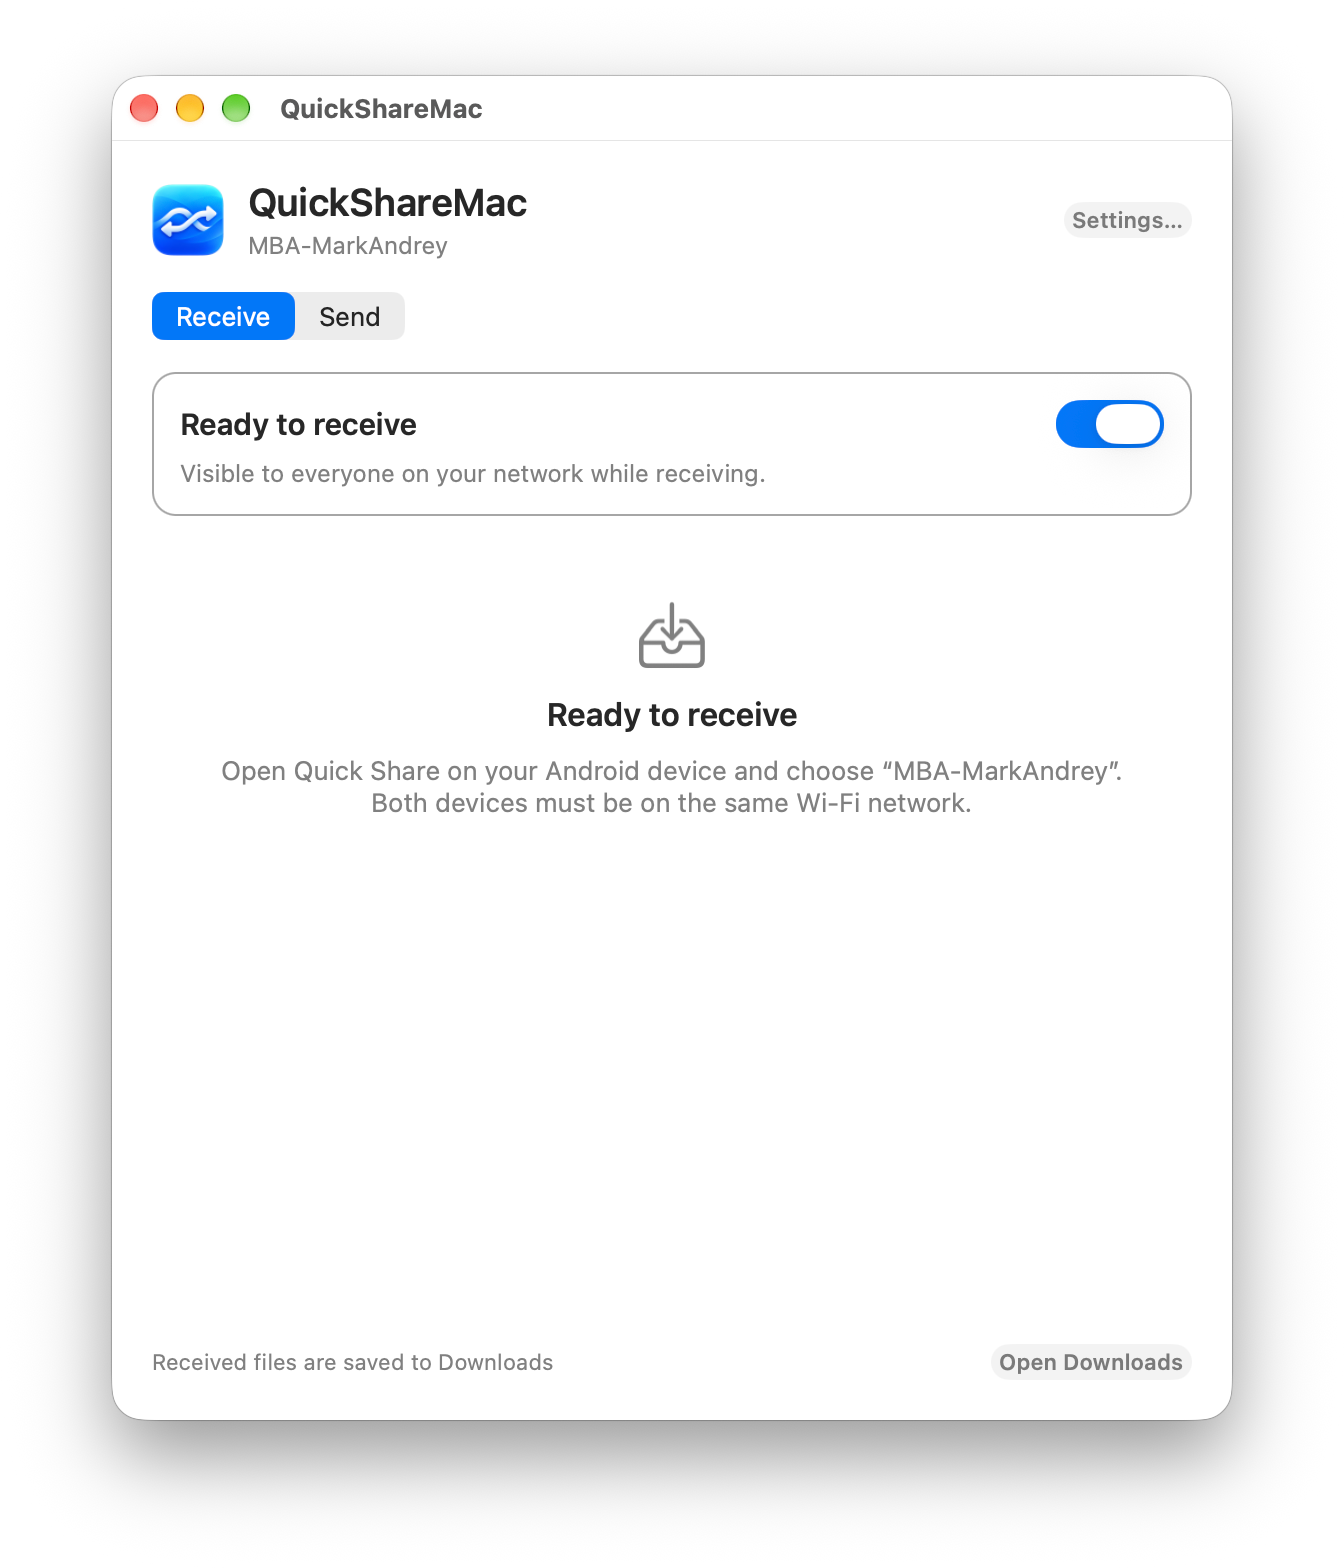
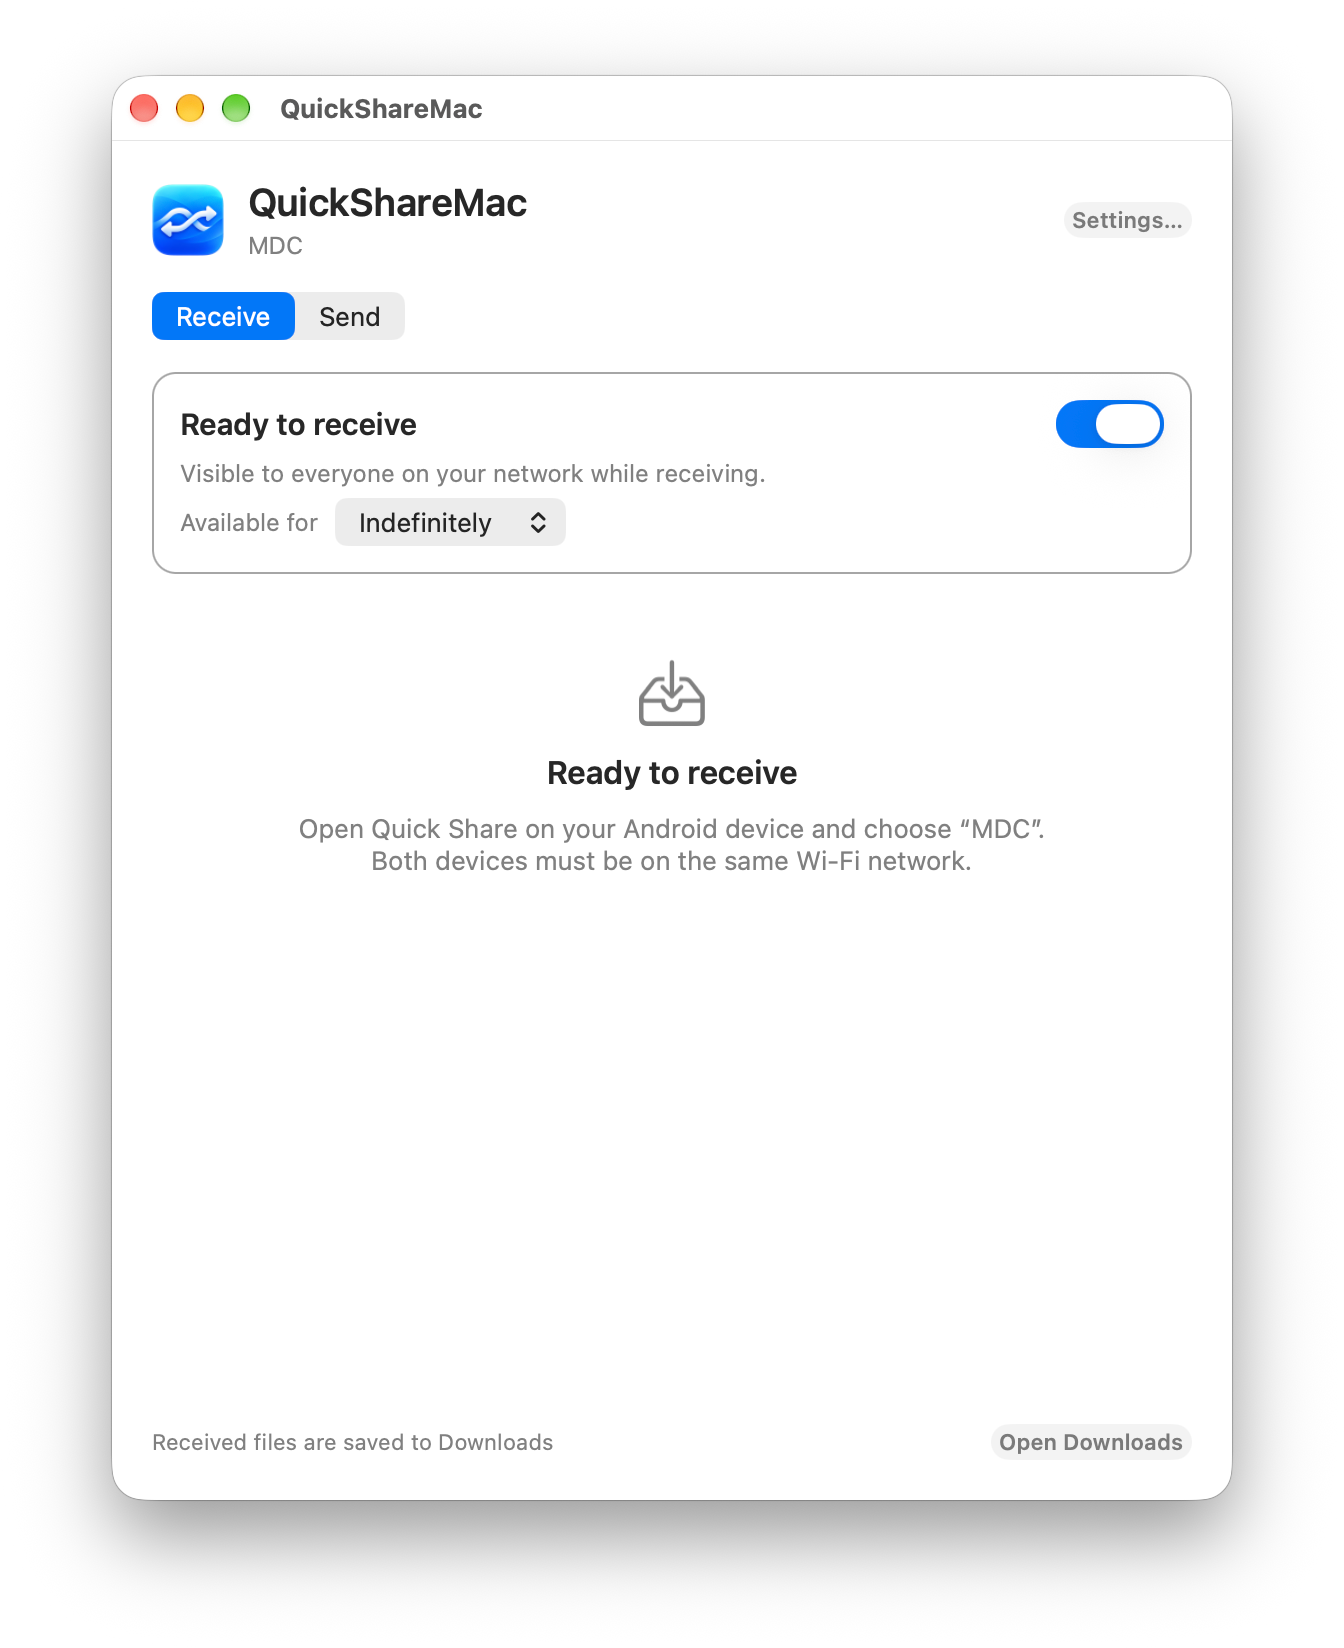
Add updated app screenshots to README

diff --git a/README.md b/README.md
@@ -23,6 +23,12 @@ Developed by Mark Andrey · github.com/markandreydc
 - Configure launch at login, receiving on startup, and remembered device names in Settings.
 - Check GitHub for updates manually, or opt into daily checks—no automatic downloads or installation.
 
+## Screenshots
+
+| Receive | Send | Settings |
+| --- | --- | --- |
+| [<img src="images/receive.png" width="280" alt="QuickShareMac Receive window">](images/receive.png) | [<img src="images/send.png" width="280" alt="QuickShareMac Send window">](images/send.png) | [<img src="images/settings.png" width="280" alt="QuickShareMac Settings window">](images/settings.png) |
+
 ## Getting started
 
 Both devices must be on the **same Wi-Fi/local network**. Keep your Android device unlocked while connecting.
